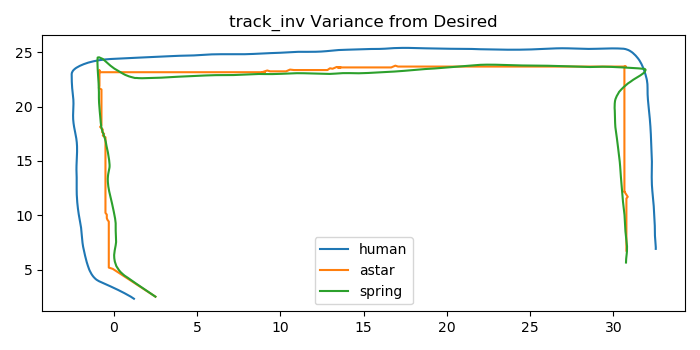
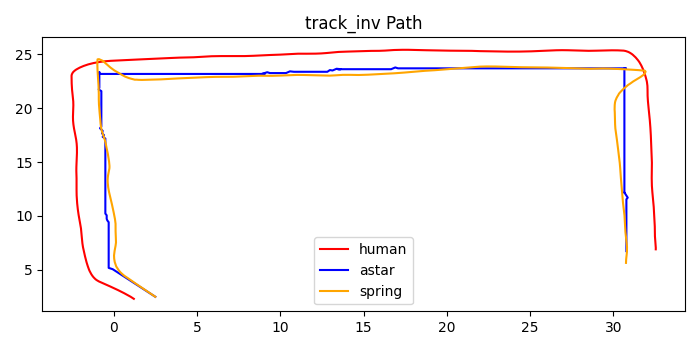
Updates Figures

diff --git a/csv/path_vis.py b/csv/path_vis.py
@@ -1,6 +1,8 @@
 import csv
 import matplotlib.pyplot as plt
 import numpy as np
+import math
+from statistics import mean
 
 scenarios = ['track', 'track_inv', 'corridors', 'corridors_inv', 'doorway', 'zigzag']
 
@@ -19,39 +21,193 @@ obstacles = {
 
 col = 2
 
-des_variance_means = []
-human_variance_means = []
+des_variance_means = 0
+human_variance_means = 0
+
+def generate_velocity_array(trajectory):
+    velocity_array = []
+    for i in range(1, len(trajectory)):
+        (x0, y0), t0 = trajectory[i-1]
+        (x1, y1), t1  = trajectory[i]
+        dt = t1 - t0
+        dx = x1 - x0
+        dy = y1 - y0
+        v = math.sqrt(dx**2 + dy**2)/dt
+        velocity_array.append(v  * 10**9)
+    return velocity_array
+
+def generate_acceleration_array(trajectory):
+    acceleration_array = []
+    for i in range(1, len(trajectory)-1):
+        (x0, y0) , t0 = trajectory[i-1]
+        (x1, y1), t1 = trajectory[i]
+        (x2, y2), t2  = trajectory[i+1]
+        dt1 = t1 - t0
+        dt2 = t2 - t1
+        dx1 = x1 - x0
+        dy1 = y1 - y0
+        dx2 = x2 - x1
+        dy2 = y2 - y1
+        v1x = dx1/dt1
+        v1y = dy1/dt1
+        v2x = dx2/dt2
+        v2y = dy2/dt2
+        a = ((v2x - v1x)/dt1 + (v2x - v1x)/dt2)/2
+        acceleration_array.append(a  * 10**9)
+    return acceleration_array
+
+def generate_jerk_array(trajectory):
+    print(trajectory)
+    jerk_array = []
+    for i in range(2, len(trajectory)-2):
+        (x0, y0), t0  = trajectory[i-2]
+        (x1, y1), t1  = trajectory[i-1]
+        (x2, y2), t2 = trajectory[i]
+        (x3, y3), t3 = trajectory[i+1]
+        (x4, y4), t4  = trajectory[i+2]
+
+        # Calculate velocity and acceleration vectors
+        dt1 = t2 - t1
+        dt2 = t3 - t2
+        dt3 = t4 - t3
+        dx1 = x2 - x1
+        dy1 = y2 - y1
+        dx2 = x3 - x2
+        dy2 = y3 - y2
+        dx3 = x4 - x3
+        dy3 = y4 - y3
+        v2x = dx1/dt1
+        v2y = dy1/dt1
+        v3x = dx2/dt2
+        v3y = dy2/dt2
+        v4x = dx3/dt3
+        v4y = dy3/dt3
+
+        # Calculate acceleration vectors
+        a2x = (v3x - v2x)/((dt1 + dt2)/2)
+        a2y = (v3y - v2y)/((dt1 + dt2)/2)
+        a3x = (v4x - v3x)/((dt2 + dt3)/2)
+        a3y = (v4y - v3y)/((dt2 + dt3)/2)
+
+        # Calculate jerk vector
+        dt = (dt1 + dt2 + dt3)/3
+        jx = (a3x - a2x)/dt
+        jy = (a3y - a2y)/dt
+        j = math.sqrt(jx**2 + jy**2)
+        jerk_array.append(j * 10**9)
+    return jerk_array
+
+jerk_means = []
 
 for sen in scenarios:
     human_x = []
     human_y = []
     astar_x = []
     astar_y = []
+    astar_time = []
     spring_x = []
     spring_y = []
+    spring_time = []
     with open('results_astar_' + sen + '.csv', newline='') as csvfile:
         for row in csv.reader(csvfile, delimiter=','):
             astar_x.append(list(map(lambda x: float(x), row))[col])
             astar_y.append(list(map(lambda x: float(x), row))[col+1])
+            astar_time.append(list(map(lambda x: float(x), row))[col+2])
             human_x.append(list(map(lambda x: float(x), row))[0])
             human_y.append(list(map(lambda x: float(x), row))[1])     
     with open('results_spring_' + sen + '.csv', newline='') as csvfile:
         for row in csv.reader(csvfile, delimiter=','):
             spring_x.append(list(map(lambda x: float(x), row))[col])
             spring_y.append(list(map(lambda x: float(x), row))[col+1])
+            spring_time.append(list(map(lambda x: float(x), row))[col+2])
     plt.figure()
     for obstacle in obstacles[sen]:
         plt.plot(obstacle[0], obstacle[1], 'black')
+
+    # astar_vel = []
+    # spring_vel = []
+    # for i in range(len(astar_x)-1):
+    #     astar_vel.append([(astar_x[i] - astar_x[i+1])  / (astar_time[i+1] - astar_time[i]), (astar_y[i] - astar_y[i+1]) / (astar_time[i+1] - astar_time[i])])
     
-    plt.title(sen + ' Variance from Desired')
+    # for i in range(len(spring_x)-1):
+    #     spring_vel.append([(spring_x[i] - spring_x[i+1])  / (spring_time[i+1] - spring_time[i]), (spring_y[i] - spring_y[i+1]) / (spring_time[i+1] - spring_time[i])])
+    # astar_accel = []
+    # spring_accel = []
+    # for i in range(len(astar_vel)-1):
+    #     astar_accel.append([(astar_vel[i][0] - astar_vel[i+1][0]) * 10**9, (astar_vel[i][1] - astar_vel[i+1][1]) * 10**9])
+    
+    # for i in range(len(spring_vel)-1):
+    #     spring_accel.append([(spring_vel[i][0] - spring_vel[i+1][0]) * 10**9, (spring_vel[i][1] - spring_vel[i+1][1]) * 10**9])
+    
+
+    astar_vel = generate_velocity_array(list(zip(zip(astar_x, astar_y), astar_time)))
+    spring_vel  = generate_velocity_array(list(zip(zip(spring_x, spring_y), spring_time)))
+
+    astar_accel = generate_velocity_array(list(zip(zip(astar_x, astar_y), astar_time)))
+    spring_accel  = generate_velocity_array(list(zip(zip(spring_x, spring_y), spring_time)))
+
+    # astar_jerk = generate_jerk_array(list(zip(zip(astar_x, astar_y), astar_time)))
+    # spring_jerk = generate_jerk_array(list(zip(zip(spring_x, spring_y), spring_time)))
+    astar_jerk = []
+    spring_jerk = []
+    for i in range(len(astar_accel)-1):
+        astar_jerk.append(abs(astar_accel[i] - astar_accel[i+1]))
+    
+    for i in range(len(spring_accel)-1):
+        spring_jerk.append(abs(spring_accel[i] - spring_accel[i+1]))
+
+    
+    plt.figure()
+    plt.title(sen + ' Jerk')
     plt.rcParams["figure.figsize"] = [7.00, 3.50]
     plt.rcParams["figure.autolayout"] = True
-    plt.plot(human_x, human_y, label='human')
-    plt.plot(astar_x[2:], astar_y[2:], label='astar')
-    plt.plot(spring_x[2:], spring_y[2:], label='spring')
+    plt.plot(range(len(astar_jerk)), astar_jerk, label='astar', color='blue')
+    plt.plot(range(len(spring_jerk)), spring_jerk, label='spring', color='orange')
+    plt.legend()
+    plt.savefig(sen + '_jerk.png')
+
+    plt.figure()
+    plt.title(sen + ' Velocity')
+    plt.rcParams["figure.figsize"] = [7.00, 3.50]
+    plt.rcParams["figure.autolayout"] = True
+    plt.plot(range(len(astar_vel)), astar_vel, label='astar', color='blue')
+    plt.plot(range(len(spring_vel)), spring_vel, label='spring', color='orange')
+    plt.legend()
+    plt.savefig(sen + '_vel.png')
+
+    plt.figure()
+    plt.title(sen + ' Acceleration')
+    plt.rcParams["figure.figsize"] = [7.00, 3.50]
+    plt.rcParams["figure.autolayout"] = True
+    plt.plot(range(len(astar_accel)), astar_accel, label='astar', color='blue')
+    plt.plot(range(len(spring_accel)), spring_accel, label='spring', color='orange')
+    plt.legend()
+    plt.savefig(sen + '_accel.png')
+
+    plt.figure()
+    plt.title(sen + ' Path')
+    plt.rcParams["figure.figsize"] = [7.00, 3.50]
+    plt.rcParams["figure.autolayout"] = True
+    plt.plot(human_x, human_y, label='human', color='red')
+    plt.plot(astar_x[2:], astar_y[2:], label='astar', color='blue')
+    plt.plot(spring_x[2:], spring_y[2:], label='spring', color='orange')
     plt.legend()
     plt.savefig(sen + '_path.png')
 
+    jerk_means.append([[mean(astar_jerk), sen + ' AStar'], [mean(spring_jerk), sen + ' Spring']])
 
+xticks = []
+plt.figure()
+plt.title('Average Jerk')
+plt.rcParams["figure.figsize"] = [7.00, 3.50]
+plt.rcParams["figure.autolayout"] = True
+for i, mean in enumerate(jerk_means):
+    plt.bar(i*2, mean[0][0], width=-0.8, align='edge', color='b')
+    plt.bar(i*2, mean[1][0], width=0.8, align='edge', color='orange')
+    xticks.extend([mean[0][1], mean[1][1]])
+plt.ylabel("Mean")
+plt.xlabel("Scenario")
+plt.xticks(np.arange(-0.5, len(xticks)-1, 1), xticks, rotation=45, ha="right")
+plt.savefig('avg_jerks.png')
 
 

diff --git a/scripts/VirtualSpring.py b/scripts/VirtualSpring.py
@@ -2,7 +2,7 @@ import math
 import numpy as np
 from ObstacleHelpers import closestPointOnLine
 import configparser
-# import os, rospkg
+import os, rospkg
 
 def ccw(A,B,C):
     return (C[1]-A[1]) * (B[0]-A[0]) > (B[1]-A[1]) * (C[0]-A[0])
@@ -39,19 +39,19 @@ class VirtualSpring:
     self.vel_cap = vel_cap
     self.predict = predict
 
-    # if(config_file != ""):
-    #   rospack = rospkg.RosPack()
-    #   Config = configparser.ConfigParser()
-    #   try:
-    #     Config.read(os.path.join(rospack.get_path("human_following"), 'scripts', config_file))
-    #     self.HUMAN_K_VALUE = float(Config['SinkValues']['OutsideDesired']) #The k-value of the virtual spring attached to the human
-    #     self.HUMAN_BOUND_K_VALUE = float(Config['SinkValues']['Desired']) #The k-value of the virtual spring attached to the human
-    #     self.OBSTACLE_K_VALUE = float(Config['SourceValues']['Obstacles']) #The k-value of the virtual spring attached to the obstacles
-    #     self.OCCLUSION_CONSTANT = float(Config['SourceValues']['Occlusion']) #The k-value of the virtual spring attached to the occlusion lines
-    #     self.HUMAN_REPULSIVE = float(Config['SourceValues']['Human']) #The k-value of the source the pushes the robot away from the human
-    #   except:
-    #     print("Invalid Configuration File")
-    if True:
+    if(config_file != ""):
+      rospack = rospkg.RosPack()
+      Config = configparser.ConfigParser()
+      try:
+        Config.read(os.path.join(rospack.get_path("human_following"), 'scripts', config_file))
+        self.HUMAN_K_VALUE = float(Config['SinkValues']['OutsideDesired']) #The k-value of the virtual spring attached to the human
+        self.HUMAN_BOUND_K_VALUE = float(Config['SinkValues']['Desired']) #The k-value of the virtual spring attached to the human
+        self.OBSTACLE_K_VALUE = float(Config['SourceValues']['Obstacles']) #The k-value of the virtual spring attached to the obstacles
+        self.OCCLUSION_CONSTANT = float(Config['SourceValues']['Occlusion']) #The k-value of the virtual spring attached to the occlusion lines
+        self.HUMAN_REPULSIVE = float(Config['SourceValues']['Human']) #The k-value of the source the pushes the robot away from the human
+      except:
+        print("Invalid Configuration File")
+    else:
       self.HUMAN_K_VALUE = .9 #The k-value of the virtual spring attached to the human
       self.HUMAN_BOUND_K_VALUE = 0.2 #The k-value of the virtual spring attached to the human
       self.OBSTACLE_K_VALUE = .4 #The k-value of the virtual spring attached to the obstacles
@@ -67,7 +67,7 @@ class VirtualSpring:
     current_human_vel = self.human_trajectory[-1] - self.human_trajectory[-2]
     return self.human_trajectory[-1] + (current_human_vel * n)
 
-
+  #Defines a repulsive force given a point, radius, and spring constant
   def repulsive_force(self, point, circle_center, radius, spring_k):
     distance = math.sqrt((point[0] - circle_center[0])**2 + (point[1] - circle_center[1])**2)
     angle = math.atan2(point[1] - circle_center[1], point[0] - circle_center[0])
@@ -89,7 +89,8 @@ class VirtualSpring:
   def updateRobot(self, robot_position):
     self.robot_position = np.array(robot_position)
     pass
-
+  
+  #Returns the percentage occluded of a +-60 degree angle
   def getOccluded(self):
     if len(self.human_trajectory) == 0 or len(self.robot_position) == 0:
       return 0
@@ -134,6 +135,7 @@ class VirtualSpring:
   def dist(self, a, b):
     return np.sqrt((b[0] - a[0]) ** 2 + (b[1] - a[1]) ** 2)
 
+  #For use in calculating the variance when running A*
   def getDesired(self):
     if len(self.human_trajectory) == 0:
       return [0, 0]
@@ -165,6 +167,7 @@ class VirtualSpring:
 
     occlusion_avoidance_force = np.array([0.0, 0.0])
     hit = False
+    #Handle the observed obstacles
     for obstacle in self.static_obstacles:
       obstacle_type = obstacle['type']
 
@@ -175,7 +178,7 @@ class VirtualSpring:
       elif(obstacle_type == 'line'):
         closest_point_on_line = np.array(closestPointOnLine(obstacle_pos[0], obstacle_pos[1], self.robot_position))
         robot_velocity += np.array(list(self.repulsive_force(self.robot_position, closest_point_on_line, 0.5, self.OBSTACLE_K_VALUE)))
-
+        #If there is occlusion between the human and both mirrored points, set the desired position to back following
         if intersect(obstacle_pos[0], obstacle_pos[1], human, desired_position2) and intersect(obstacle_pos[0], obstacle_pos[1], human, desired_position):
           desired_position = human
           desired_position2 = human
@@ -209,20 +212,21 @@ class VirtualSpring:
 
     robot_velocity += np.array(list(self.repulsive_force(self.robot_position, human, .5, self.HUMAN_REPULSIVE)))
     
-    #If the robot is within the desired  range (currently set as +- 15 degrees and +- .25 meters) apply very little force towards the desired:
+    #If the robot is within the desired  range apply very little force towards the desired:
     if ((shortest_angle(desired_angle, np.arctan2(*(self.robot_position - human[0:2])) - human[2]) < self.desired_angle_range[1] and  shortest_angle(desired_angle, np.arctan2(*(self.robot_position - human[0:2])) - human[2]) > -self.desired_angle_range[0]) or (shortest_angle(angle_2, np.arctan2(*(self.robot_position - human[0:2])) - human[2]) < self.desired_angle_range[0] and  shortest_angle(angle_2, np.arctan2(*(self.robot_position - human[0:2])) - human[2]) > -self.desired_angle_range[1])) and (self.desired_follow_distance - self.desired_distance_range[0] < self.dist(human, self.robot_position) < self.desired_follow_distance + self.desired_distance_range[1]):
       print('In Bound')
       vel1 = np.array(list(map(lambda x: self.HUMAN_BOUND_K_VALUE * (x[0] - x[1]), zip(desired_position, self.robot_position))))
       vel2 = np.array(list(map(lambda x: self.HUMAN_BOUND_K_VALUE * (x[0] - x[1]), zip(desired_position2, self.robot_position))))
       
+      #Pick the point with the higher vel/dist^2 ratio
       robot_attractive = vel1 if np.linalg.norm(vel1 + robot_velocity)/(self.dist(desired_position, self.robot_position))**2 > np.linalg.norm(vel2 + robot_velocity)/(self.dist(desired_position2, self.robot_position))**2 else vel2
       robot_attractive = robot_attractive if np.linalg.norm(robot_attractive) < self.vel_cap else robot_attractive / np.linalg.norm(robot_attractive) * self.vel_cap
       robot_velocity += robot_attractive
     else:
       vel1 = np.array(list(map(lambda x: self.HUMAN_K_VALUE * (x[0] - x[1]), zip(desired_position, self.robot_position))))
       vel2 = np.array(list(map(lambda x: self.HUMAN_K_VALUE * (x[0] - x[1]), zip(desired_position2, self.robot_position))))
-      
-      robot_attractive = vel1 #if np.linalg.norm(vel1 + robot_velocity)/(self.dist(desired_position, self.robot_position))**2 > np.linalg.norm(vel2 + robot_velocity)/(self.dist(desired_position2, self.robot_position))**2 else vel2
+      #Pick the point with the higher vel/dist^2 ratio
+      robot_attractive = vel1 if np.linalg.norm(vel1 + robot_velocity)/(self.dist(desired_position, self.robot_position))**2 > np.linalg.norm(vel2 + robot_velocity)/(self.dist(desired_position2, self.robot_position))**2 else vel2
       robot_attractive = robot_attractive if np.linalg.norm(robot_attractive) < self.vel_cap else robot_attractive / np.linalg.norm(robot_attractive) * self.vel_cap
       robot_velocity += robot_attractive
     

diff --git a/scripts/PotentialFieldVisualizer.py b/scripts/PotentialFieldVisualizer.py
@@ -5,8 +5,8 @@ import numpy as np
 from VirtualSpring import VirtualSpring
 import matplotlib.pyplot as plt
 
-human = [0, -0.51, 0]
-ranges = [-5, 6]
+human = [0.6, -0.81, np.pi/4]
+ranges = [-5, 5]
 
 VirtualSpring = VirtualSpring(desired_follow_angle=1*np.pi/4, desired_follow_distance=2, desired_angle_range=[0, 0], desired_distance_range=[0, 0], config_file='config.ini')
 
@@ -24,7 +24,7 @@ def update_walls(Obstacles):
         VirtualSpring.updateObstacles(obstacles_array)
 
 
-ob_array = [[[1.25, 1.25], [.25, 3.25]]]
+ob_array = [[[-5, -0.1], [.55, .55]], [[-0.1, -0.1], [.55, 5]]]
 update_walls(ob_array)
 
 update_human(*human)
@@ -38,10 +38,16 @@ for i in np.arange(*ranges, 0.5):
         arrow = plt.arrow(*(loc - 0.5 * desired_vel), *(desired_vel), linewidth=0.1, head_width=0.1)
         plt.gca().add_patch(arrow)  
 circle1 = plt.Circle(human[0:2], 0.25,label='Human', color='r')
+plt.gca().add_patch(circle1)
+
+circle2 = plt.Circle([human[0] + math.cos(np.pi/4 - human[2]) * 2.1, human[1] + math.sin(np.pi/4 - human[2]) * 2.1], 0.25,label='Desired', color='orange')
+plt.gca().add_patch(circle2)
+
+circle2 = plt.Circle([human[0] + math.cos(3*np.pi/4 - human[2]) * 2.1, human[1] + math.sin(3*np.pi/4 - human[2]) * 2.1], 0.25, color='orange')
+plt.gca().add_patch(circle2)
 
 for ob in ob_array:
      plt.plot(ob[0], ob[1], label='wall', c='black')
 
-plt.gca().add_patch(circle1)
 plt.legend(loc='upper left')
 plt.savefig('PotentialField.png')
